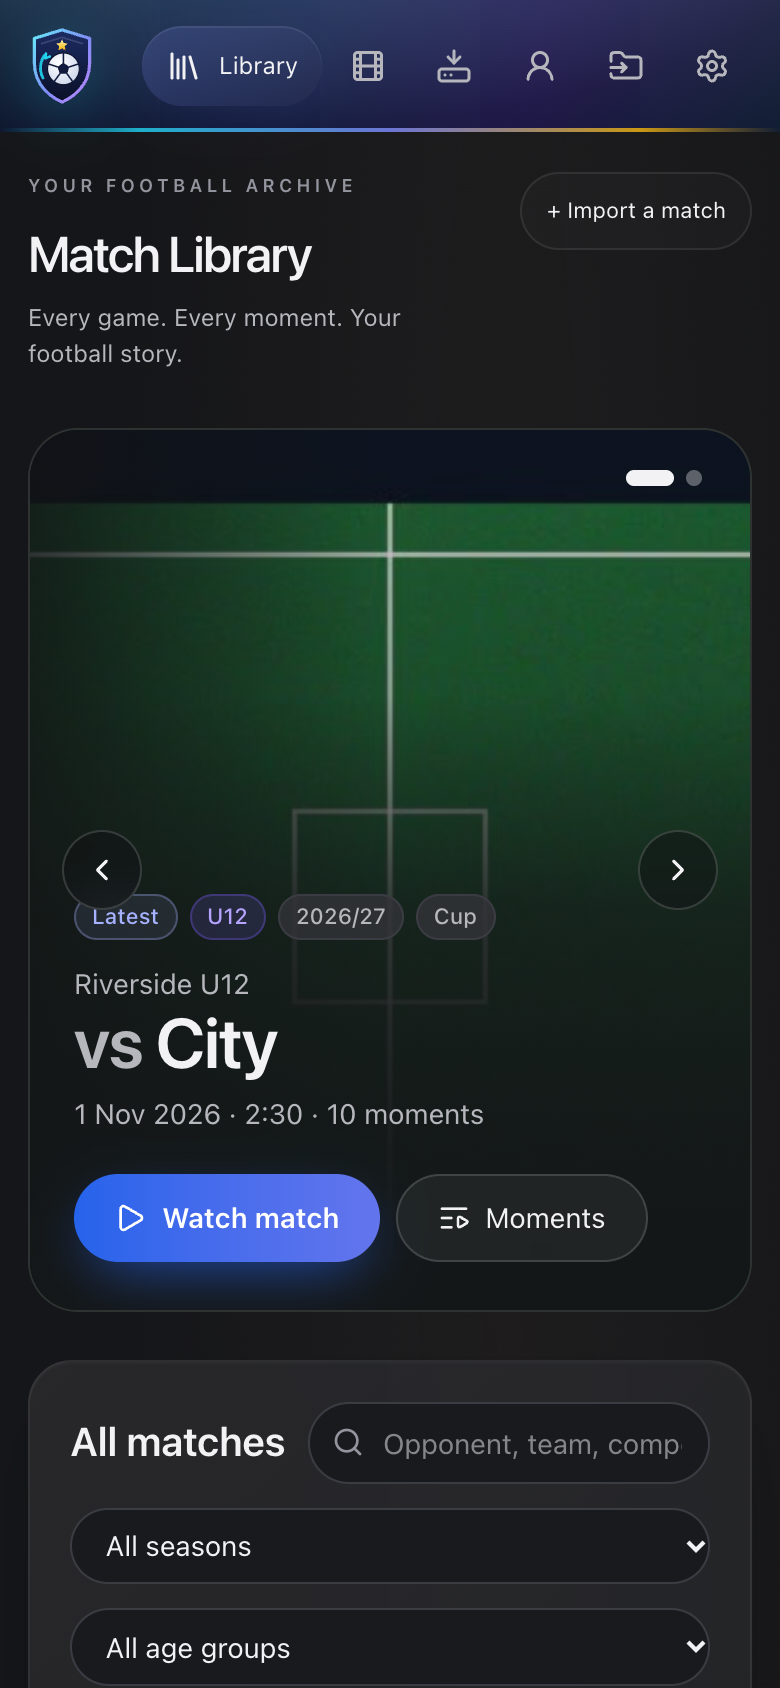
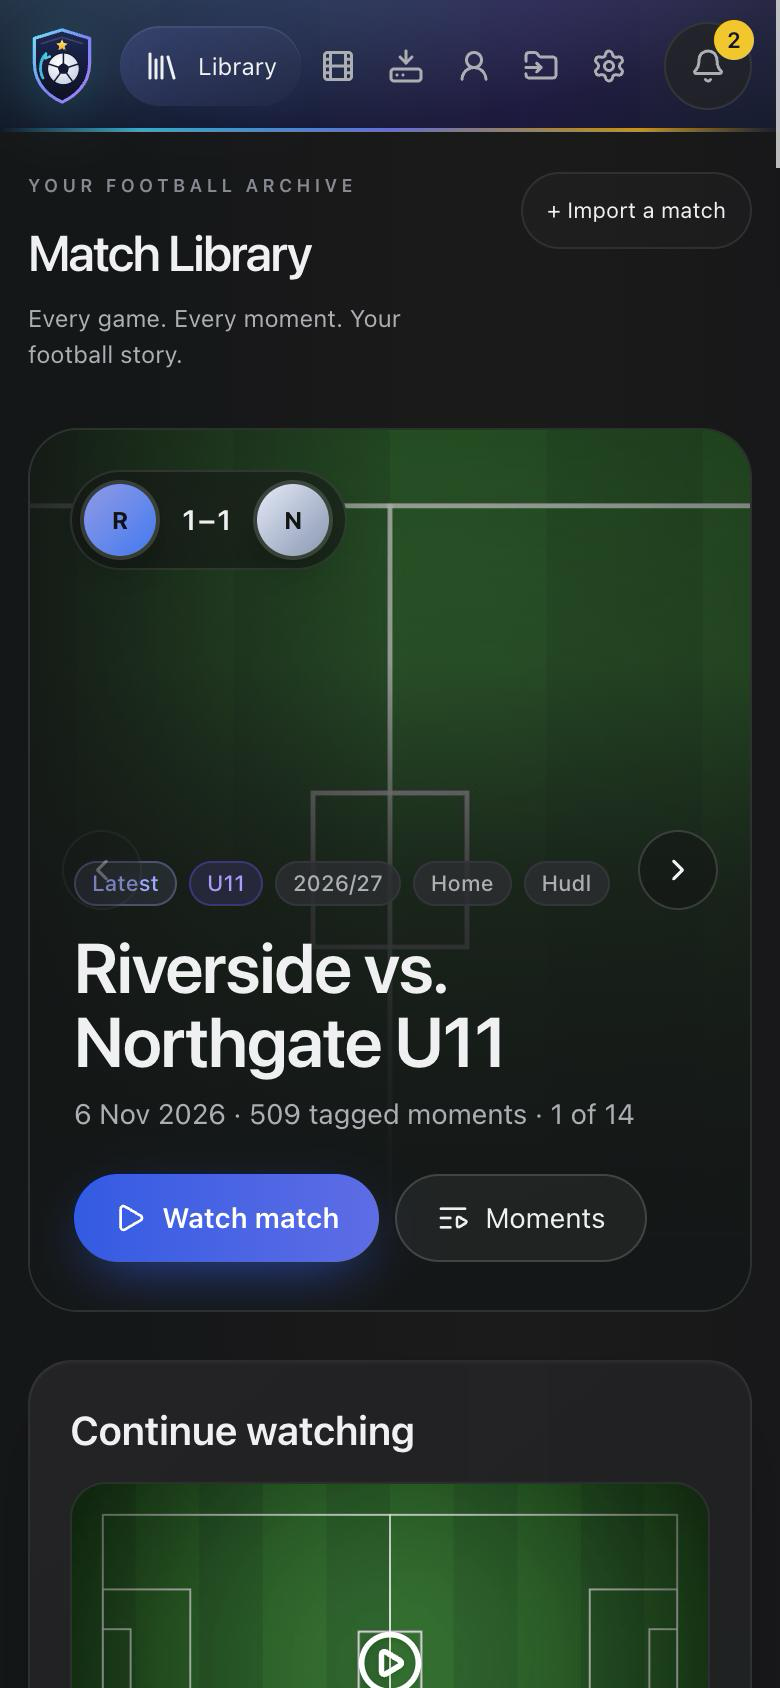
Release 0.3: version bump, changelog, README and new screenshots
backend and frontend versions go to 0.3.0 (lock files too). CHANGELOG.md
summarises 0.3 for the GitHub release. The README describes the match
insights, player hub insights, Opponents, reports, notes, alerts and
continue watching, with ten screenshots taken from made-up data served by
a throwaway stand-in helper (no real players, footage or Hudl).

Found while shooting: "END HALF" and other plain-word codes were shown as
names ("End Half"); the name check now knows those words. "1 attacks" and
"1 goals" read correctly.

Verified: frontend 305 passed, typecheck and build OK; backend 462 passed
(SQLite) and 462 (Postgres), ruff, format, mypy clean.

diff --git a/frontend/src/components/player/PlayerInsights.tsx b/frontend/src/components/player/PlayerInsights.tsx
@@ -6,6 +6,8 @@ import { fixtureDate, fixtureParts } from "../../lib/hudlFixture";
 import { type Group, involvementTotals, journey, partnerships, phases } from "../../lib/insights";
 import { sameCode } from "../../lib/codes";
 
+const plural = (n: number, one: string, many = `${one}s`) => `${n} ${n === 1 ? one : many}`;
+
 const GROUPS: { key: Group; label: string }[] = [
   { key: "attacking", label: "Attacking" }, { key: "defending", label: "Defending" }, { key: "setPieces", label: "Set pieces" },
 ];
@@ -51,7 +53,7 @@ export function PlayerInsights({ library, name, club }: { library: HudlMatch[] |
           <label className="text-xs text-fg-muted">Season <select className="field ml-1 w-auto" value={chosen} onChange={(e) => setSeason(e.target.value)}>
             <option value="all">All seasons</option>{seasons.map((s) => <option key={s.season}>{s.season}</option>)}</select></label>
         </div>
-        <p className="text-sm">Tagged during <strong>{v.headline.ourChances}</strong> of our chances and <strong>{v.headline.ourGoals}</strong> goals, and during <strong>{v.headline.theirChances}</strong> opposition chances, across {v.matches} {v.matches === 1 ? "match" : "matches"}.</p>
+        <p className="text-sm">Tagged during <strong>{v.headline.ourChances}</strong> of our chances and <strong>{v.headline.ourGoals}</strong> {v.headline.ourGoals === 1 ? "goal" : "goals"}, and during <strong>{v.headline.theirChances}</strong> opposition {v.headline.theirChances === 1 ? "chance" : "chances"}, across {plural(v.matches, "match", "matches")}.</p>
         <div className="grid gap-3 sm:grid-cols-3">
           {GROUPS.map((g) => (
             <div key={g.key} className="tile p-3">
@@ -80,11 +82,11 @@ export function PlayerInsights({ library, name, club }: { library: HudlMatch[] |
       {attacks.length > 0 && (
         <section aria-label="Attacks he was in" className="panel space-y-3 p-5">
           <h2 className="flex items-center gap-2 text-lg font-semibold"><Route size={16} className="text-accent" aria-hidden /> Attacks he was in that ended in a chance</h2>
-          <p className="text-sm text-fg-muted">{attacks.length} attacks ({attacks.filter((a) => a.phase.outcome === "goal").length} goals) in {byMatch.length} {byMatch.length === 1 ? "match" : "matches"}. Open a match to play them back to back, download them or make a reel.</p>
+          <p className="text-sm text-fg-muted">{plural(attacks.length, "attack")} ({plural(attacks.filter((a) => a.phase.outcome === "goal").length, "goal")}) in {plural(byMatch.length, "match", "matches")}. Open a match to play them back to back, download them or make a reel.</p>
           <ul className="grid gap-2 sm:grid-cols-2 lg:grid-cols-3">{byMatch.map((m) => (
             <li key={m.id}><Link className="tile flex justify-between gap-3 p-3 text-sm hover:border-accent/60" to={`/hudl/${encodeURIComponent(m.id)}?player=${encodeURIComponent(name)}&phases=1`}>
               <span className="min-w-0 truncate">{fixtureParts(m.title, club)?.opponent ?? m.title}<span className="block text-xs text-fg-subtle">{fixtureDate(m.title)?.toLocaleDateString("en-GB", { day: "numeric", month: "short", year: "numeric" }) ?? "Undated"}</span></span>
-              <span className="shrink-0 text-xs text-pin">{attacks.filter((a) => a.match.id === m.id).length} attacks</span></Link></li>))}</ul>
+              <span className="shrink-0 text-xs text-pin">{plural(attacks.filter((a) => a.match.id === m.id).length, "attack")}</span></Link></li>))}</ul>
         </section>
       )}
     </div>

diff --git a/frontend/src/components/player/PlayerInsights.test.tsx b/frontend/src/components/player/PlayerInsights.test.tsx
@@ -20,14 +20,14 @@ const library = [
 it("says what he was on the pitch during, for the latest season by default", () => {
   renderWithProviders(<PlayerInsights library={library} name="Pat Example" club="Aston Villa" />);
   const panel = screen.getByRole("region", { name: "Involvement" });
-  expect(panel).toHaveTextContent("Tagged during 0 of our chances and 1 goals, and during 0 opposition chances, across 1 match.");
+  expect(panel).toHaveTextContent("Tagged during 0 of our chances and 1 goal, and during 0 opposition chances, across 1 match.");
   expect(panel).toHaveTextContent(/not necessarily the one who made them/);
 });
 
 it("switches the season, and charts every season of the journey", async () => {
   renderWithProviders(<PlayerInsights library={library} name="Pat Example" club="Aston Villa" />);
   await userEvent.setup().selectOptions(screen.getByLabelText("Season"), "all");
-  expect(screen.getByRole("region", { name: "Involvement" })).toHaveTextContent("Tagged during 1 of our chances and 1 goals");
+  expect(screen.getByRole("region", { name: "Involvement" })).toHaveTextContent("Tagged during 1 of our chances and 1 goal");
   const journey = screen.getByRole("region", { name: "Football journey" });
   expect(within(journey).getAllByRole("listitem").map((li) => li.getAttribute("aria-label"))).toEqual([
     "2025-26: 1 moments per match over 1 matches, 100% attacking, 0% defending",

diff --git a/frontend/src/lib/hudlPlayer.ts b/frontend/src/lib/hudlPlayer.ts
@@ -39,7 +39,8 @@ const SITUATION = new Set(
   ("possession ball play entry third chance target pressing press goal save shot shots corner kick free throw " +
     "cross pass passing tackle foul offside penalty counter attack attacking defence defensive defending " +
     "transition build regain turnover compactness regrouping managing contested opposition final def gk keeper " +
-    "distribution claim block clearance header dribble switch recovery duel aerial won lost restart sub").split(" "),
+    "distribution claim block clearance header dribble switch recovery duel aerial won lost restart sub " +
+    "half end injury best practice warm substitution kickoff").split(" "),
 );
 
 /** A code of two or three plain words with no football vocabulary is taken to be a player. */

diff --git a/frontend/src/lib/displayCode.test.ts b/frontend/src/lib/displayCode.test.ts
@@ -13,6 +13,10 @@ it("leaves situation codes and anything not a plain name as they are", () => {
   expect(displayCode("DEF IN FINAL 3RD")).toBe("DEF IN FINAL 3RD");
   expect(displayCode("THEO (T)")).toBe("THEO (T)");
   expect(displayCode("QCC")).toBe("QCC");
+  // Seen in real tag sets: plain words that are not names.
+  expect(displayCode("END HALF")).toBe("END HALF");
+  expect(displayCode("BEST PRACTICE")).toBe("BEST PRACTICE");
+  expect(displayCode("RIVERSIDE INJURY")).toBe("RIVERSIDE INJURY");
 });
 
 it("rewrites every moment's code in a served library and nothing else", () => {

diff --git a/README.md b/README.md
@@ -12,33 +12,49 @@ animated title cards. Nothing is uploaded anywhere.
 
 ## What it does
 
-- **Match Library**: every match with both clubs' crests, the newest first. Icons show
-  which matches and moments you have already downloaded. Overview stats follow the
-  age group and season you pick.
+- **Match Library**: every match with both clubs' crests, the newest first, with
+  scores, a Match Profile and possession for the match on show. **Continue
+  watching** picks up where you stopped; icons show what you have downloaded.
 - **Match page**: watch the whole game or only the tagged moments, filter by
-  moment type or player, and play tagged moments back to back.
+  moment type or player, and play tagged moments back to back. **Match
+  insights** show possession, a minute-by-minute momentum chart (click a bar to
+  watch it) and your record against the opponent. **Attacks ending in a chance**
+  turns each attack into one clip. Add a **note or arrows** to any moment.
+- **My Player**: a player card in seven finishes, a memories timeline, and what
+  your player was on the pitch during, his football journey season by season,
+  and who he plays alongside most.
+- **Opponents**: your record against every club for one team, followed as it
+  moves up an age group each season, split by season with every game.
+- **Reports**: a match or season report with club crests, saved as an image or
+  printed to PDF for family.
 - **Clips**: pick a match, choose a player or code, and download their moments as
   separate clips, one video, or straight into a highlight reel. **Batch download**
   does the same across many matches in one go.
-- **Highlight reels**: six animated card styles (Floodlights, Kick-off, Trophy
-  gold, Neon, Matchday poster, Clean). Each match gets its own opening card,
-  filled in automatically with both crests, the opponent and the date.
+- **Highlight reels**: six animated card styles, each match with its own opening
+  card filled in automatically with both crests, the opponent and the date.
 - **Downloaded**: every full match, moment set and reel on this computer, with
-  Play and Save buttons.
-- **My Player**: a player card in seven finishes (gold, silver, bronze and more)
-  showing the club crest, moments and games, plus a memories timeline.
+  Play, Save and Delete, and an optional folder for Plex and other media players.
+- **Alerts**: a bell for new matches and new moments of your player.
 - **Phones and tablets**: open the app from any device on your home Wi-Fi.
 - **Updates**: Settings > Update checks GitHub and updates in one click.
 
-| Match page | Player hub |
+| Match page | Match insights |
 |---|---|
-| ![Match page](docs/screenshots/match.png) | ![Player hub](docs/screenshots/player.png) |
+| ![Match page](docs/screenshots/match.png) | ![Match insights](docs/screenshots/insights.png) |
 
-| Clips | On a phone |
+| Player hub | On the pitch during, journey and partnerships |
 |---|---|
-| ![Clips](docs/screenshots/clips.png) | <img src="docs/screenshots/phone.png" alt="On a phone" width="260"> |
+| ![Player hub](docs/screenshots/player.png) | ![Player insights](docs/screenshots/player-insights.png) |
 
-Screenshots use the built-in sample data, not real players.
+| Opponents | Clips |
+|---|---|
+| ![Opponents](docs/screenshots/opponents.png) | ![Clips](docs/screenshots/clips.png) |
+
+| Match report | Season report | On a phone |
+|---|---|---|
+| <img src="docs/screenshots/report-match.png" alt="Match report" width="260"> | <img src="docs/screenshots/report-season.png" alt="Season report" width="260"> | <img src="docs/screenshots/phone.png" alt="On a phone" width="220"> |
+
+Screenshots use made-up sample data (club, opponents and players), not real players or footage.
 
 ## Installing
 

diff --git a/CHANGELOG.md b/CHANGELOG.md
@@ -1,5 +1,34 @@
 # Changelog
 
+## 0.3 (2026-11-13)
+
+### New
+- **Match insights** on every match: possession worked out from how long each
+  side had the ball, a minute-by-minute **momentum** chart (click a bar to watch
+  that minute), and your record against the opponent.
+- **Attacks ending in a chance**: every attack that ended in a chance or goal as
+  one clip, ready to play back to back, download or make into a reel.
+- **Player hub insights**: what your player was on the pitch during (attacking,
+  defending, set pieces), a **football journey** season by season, who he
+  **plays alongside most**, and the attacks he was in.
+- **Opponents**: your record against every club for one team, followed as it
+  moves up an age group each season (U11 in 2026/27 is U10 in 2025/26), split
+  by season with every game listed.
+- **Shareable reports**: a match or season report with club crests, saved as an
+  image or printed to PDF.
+- **Notes and drawings** on any moment: a note plus arrows or lines over the
+  video, shown again when that moment plays.
+- **Alerts**: a bell for new matches and new moments of your player.
+- **Continue watching** on the Library, resuming each match where you stopped.
+
+### Better
+- The same tag in different spellings ("&amp;" and "&", "CHRIS DEMO" and
+  "Chris Demo") now counts as one, and player names read "Chris Demo".
+- The Match Profile's possession point shows time on the ball, not a count of tags.
+
+### Fixed
+- Header labels no longer wrap at smaller desktop widths.
+
 ## 0.2 (2026-11-13)
 
 ### New

diff --git a/docs/HANDOFF.md b/docs/HANDOFF.md
@@ -13,6 +13,12 @@ timeline. Full brief: [BRIEF.md](BRIEF.md). Design references:
 
 ## Current state (2026-11-13)
 
+- **Release 0.3 (2026-11-13):** versions 0.3.0, CHANGELOG, README rewritten for
+  the new features, ten screenshots in `docs/screenshots/` taken from made-up
+  data (club Riverside, fictional opponents, synthetic players and tags, a drawn
+  pitch) served by a throwaway stand-in helper; nothing real or from Hudl.
+  Fixed while shooting: "END HALF" and other plain-word codes were shown as names.
+
 - **Opponents by team, report crests (owner request 2026-11-13, D-033):**
   Opponents, head-to-head and the season report follow one team across seasons
   (U11 2026/27 = U10 2025/26 = U9 2024/25), each club split by season with every
